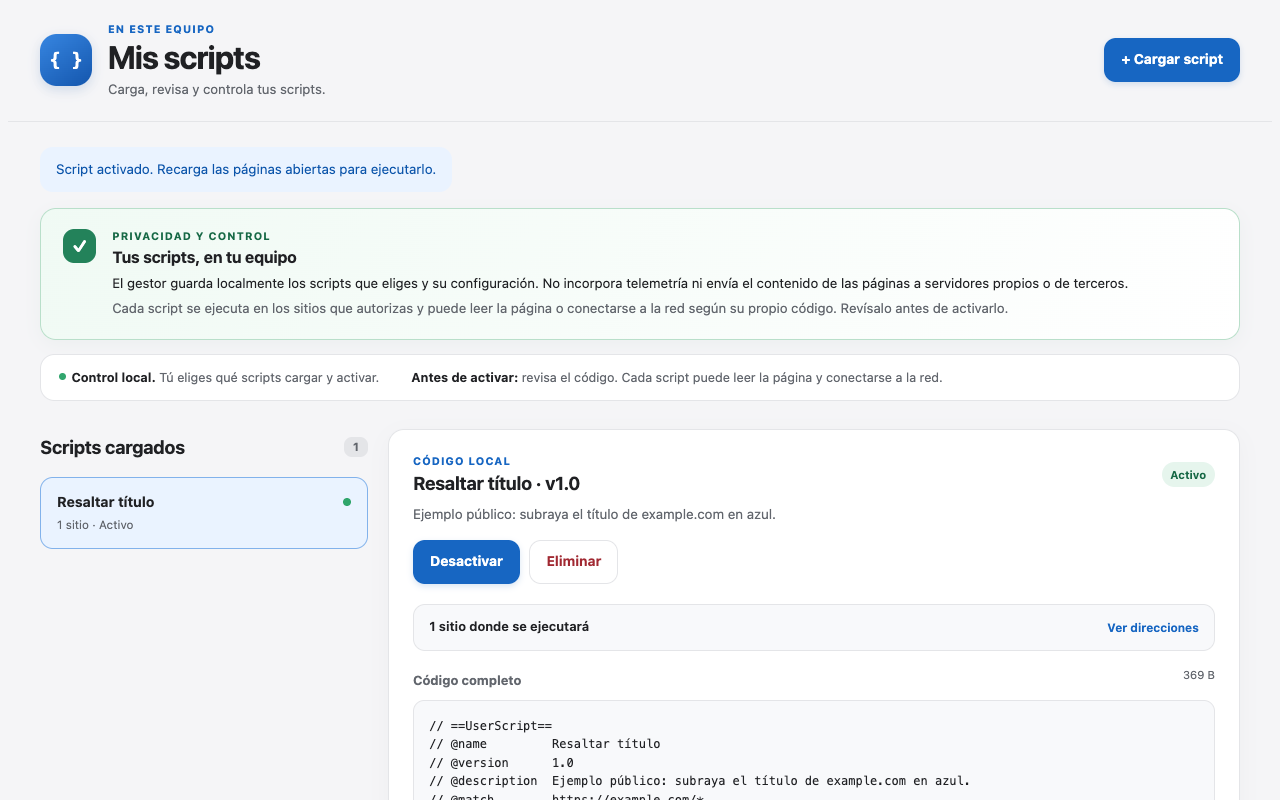
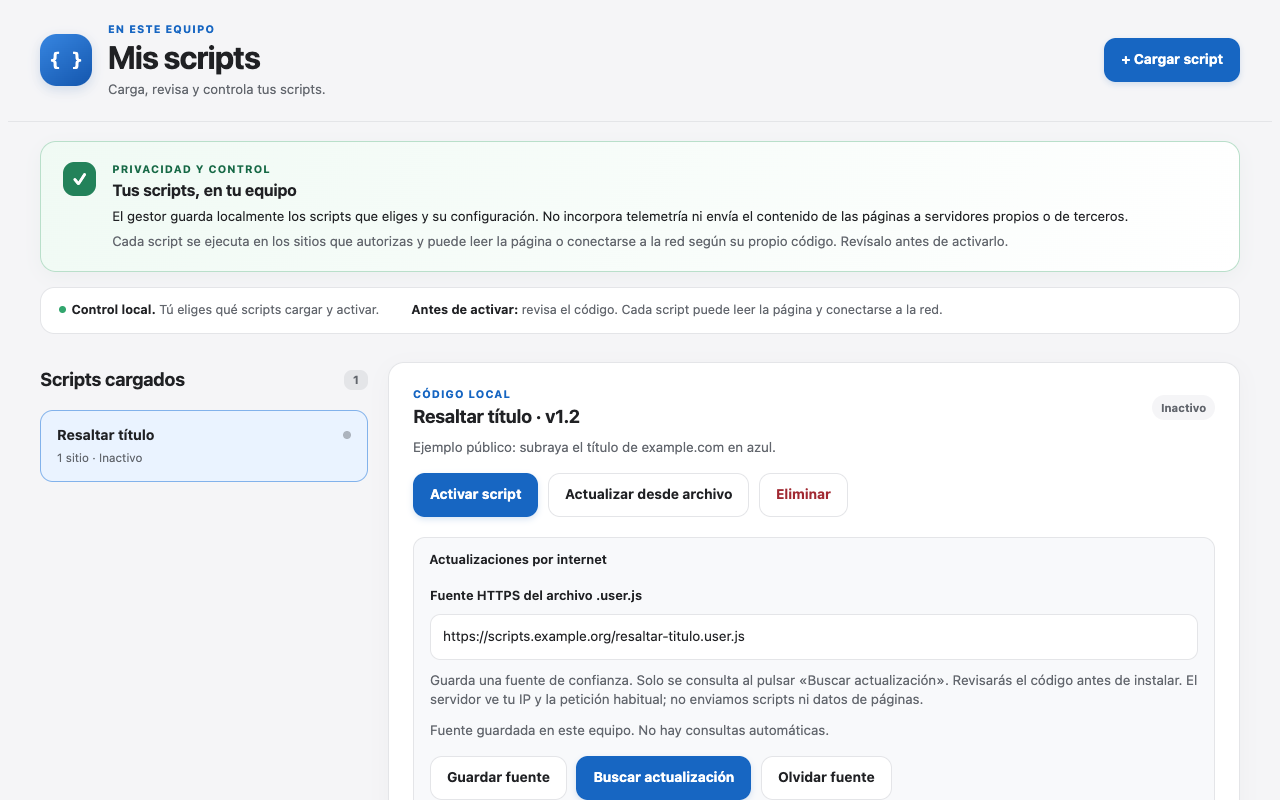
Actualizar material de Chrome Web Store para 0.1.6
Renueva capturas sintéticas de la interfaz y documenta su carácter demostrativo.

diff --git a/tienda/README.md b/tienda/README.md
@@ -5,3 +5,5 @@ Las capturas de 1280 × 800 muestran la interfaz real del gestor con el ejemplo 
 `promocion-440x280.png` es la imagen promocional. Su fuente vectorial está en `promocion-440x280.svg`.
 
 Estos archivos no se incluyen en el ZIP de ejecución de la extensión.
+
+Las capturas de 0.1.6 incluyen la configuración OTA manual con una fuente de demostración `scripts.example.org`. Las descargas HTTPS se interceptaron en una prueba aislada: el ejemplo público y las versiones de demostración no representan un servidor operativo. Se comprobó que la captura no contiene scripts instalados ni información clínica. La API de Chrome se simuló para la prueba de interfaz; esto no demuestra por sí solo la concesión de permisos en una instalación real.
